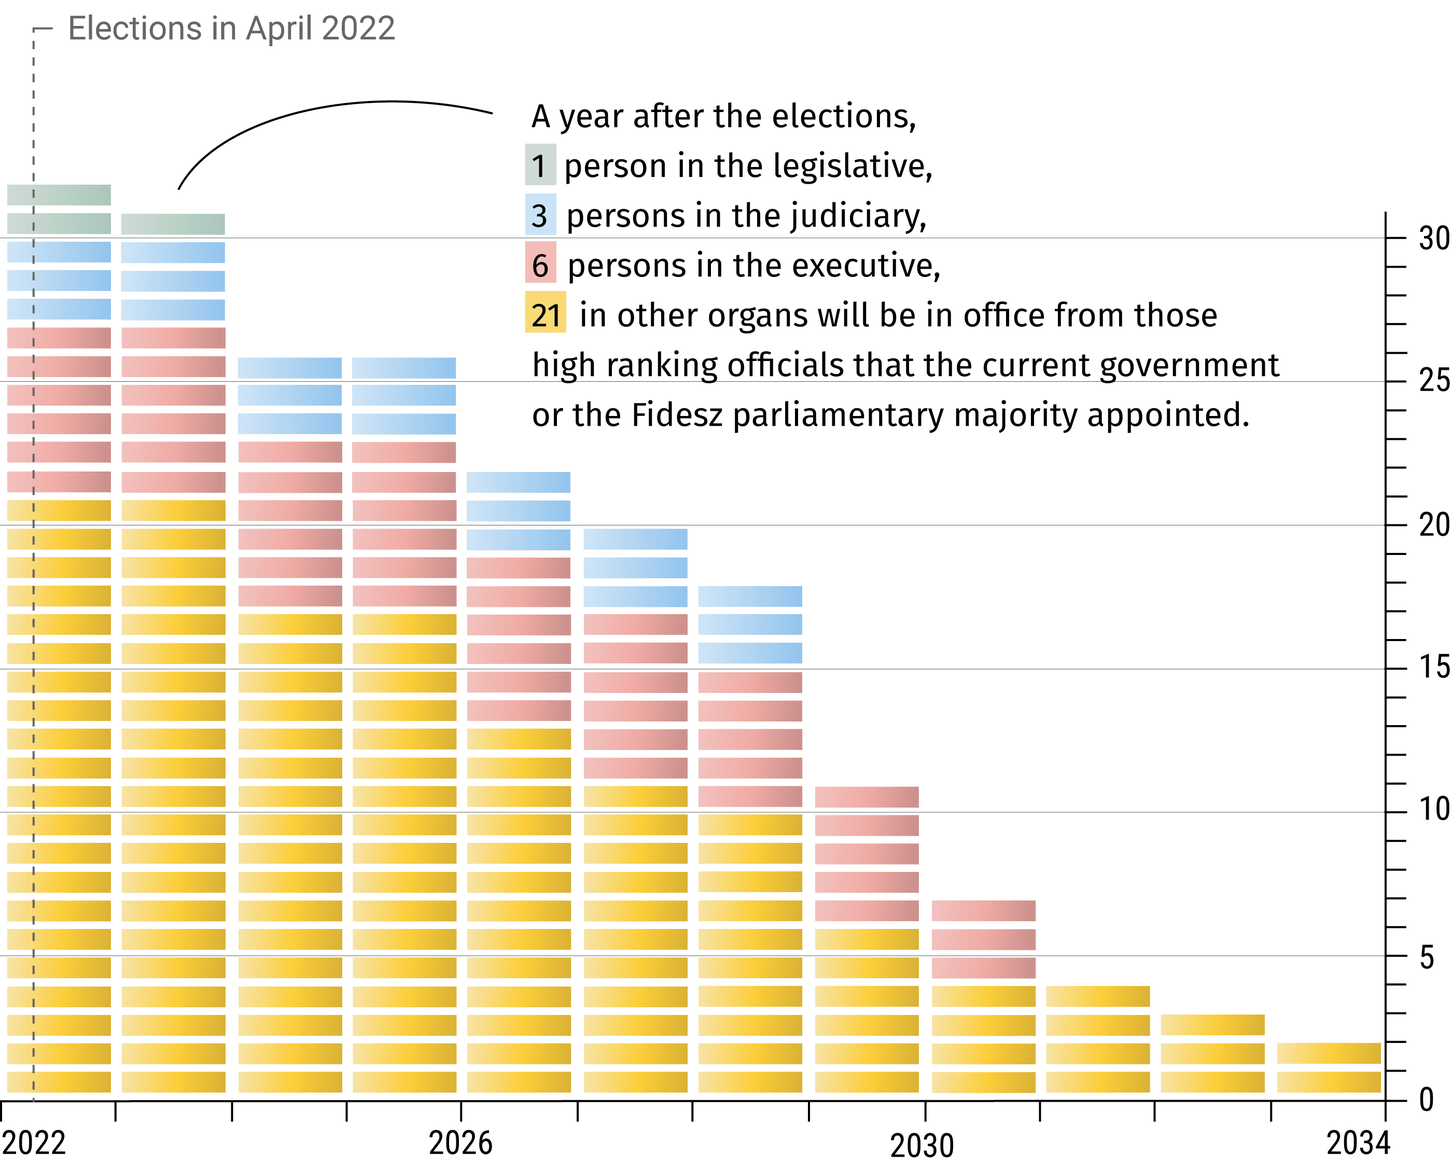
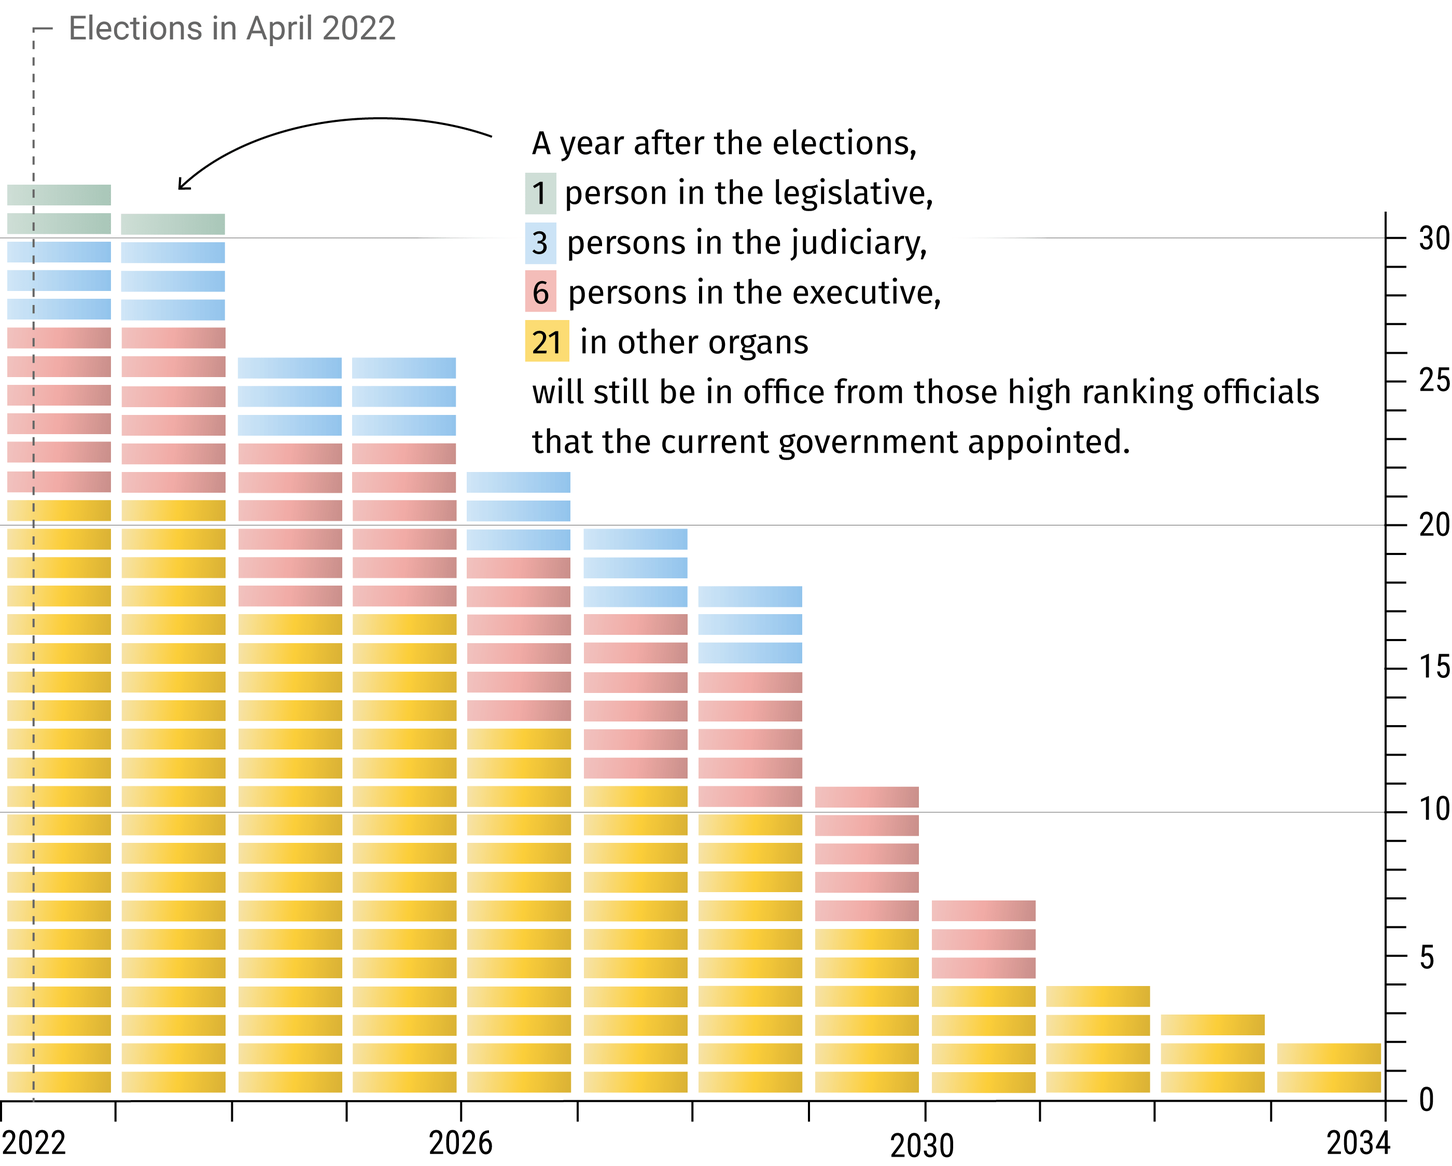
Updates

diff --git a/index.html b/index.html
@@ -7,7 +7,7 @@
     <meta name="viewport" content="width=device-width, initial-scale=1.0">
     <title>Következő kormány kezét megkötő szereplők</title>
     <meta name="description" content="Egy évvel a 2022-es választások után, a jelenlegi kormány által kinevezett magasrangú tisztviselők közül még ott lesz 1 a törvényhozásban, 3 az igazságszolgáltatásban, 6 a végrehajtásban, 21 az egyéb hivatalokban.">
-    <meta property="og:image" content="https://cementezettek.helsinki.hu/assets/img/scoial_HUN.png"/>
+    <meta property="og:image" content="https://cementezettek.helsinki.hu/assets/img/SOCIAL_HUN.png"/>
     <link rel="stylesheet" href="assets/css/app.css">
     <link rel="preconnect" href="https://fonts.googleapis.com">
     <link rel="preconnect" href="https://fonts.gstatic.com" crossorigin>
@@ -30,7 +30,7 @@
     <div class="narrowwrap">
         <div id="thelead" class="thelead pageintro">
             <div id="animintro" data-aos="fade-up" data-aos-delay="500" data-aos-duration="1200">
-                <p>2010 óta a Fidesz folyamatosan igyekszik bebetonozni hatalmát. Így a választások után, annak eredményének függetlenül, nehezen elmozdítható közjogi tisztségviselők hada marad pozícióban, akik kizárólag a jelenlegi kormánynak vagy a Fidesz-többségnek köszönhetik mandátumukat.</p>
+                <p>2010 óta a Fidesz folyamatosan igyekszik bebetonozni hatalmát. Így a választások után, annak eredményétől függetlenül, nehezen elmozdítható közjogi tisztségviselők hada marad pozícióban, akik kizárólag a jelenlegi kormánynak vagy a Fidesz-többségnek köszönhetik mandátumukat.</p>
                 <p>Könnyen lehet, hogy kormányváltás esetén ezek a személyek a pozíciójukhoz kapcsolt formális és informális eszközeikkel akadályozni fogják az új kormányt. Az államapparátus minden szegletében találunk ilyen tisztviselőket:</p>
             </div>
         </div>
@@ -75,7 +75,7 @@
                         <li>2030</li>
                         <li>2034</li>
                     </ul>
-                    <svg class="theaxis" viewBox="0 0 600 15" fill="black" xmlns="http://www.w3.org/2000/svg">
+                    <svg class="theaxis" viewBox="0 0 600 15" fill="black" width="100%" preserveAspectRatio="none" xmlns="http://www.w3.org/2000/svg">
                         <g class='markers'>
                             <rect x='0%' y='0' width='1' height='15' /><!-- 2010 -->
                             <rect x='4.1666%' y='7' width='1' height='8' /><!-- 2011 -->
@@ -105,7 +105,7 @@
                         </g>
                         <rect x='0%' y='100%' width='100%' height='1' transform="translate(0, -1)" />
                     </svg>
-                    <p>Választások 2022. áprilisában</p>
+                    <p>Választások 2022 áprilisában</p>
                 </div>            </div>
                 <div class="office">
                     <h3 class="office__title">Állami Számvevőszék</h3>
@@ -123,7 +123,7 @@
                     <h3 class="office__title">Költségvetési Tanács</h3>
                     <div class="office__intro">
                         <p>
-                            Az Országgyűlés törvényhozási munkáját segítő testület. A költségvetési törvény elfogadásához a Tanács hozzájárulása szükséges, amit megtagadhat, ha meglátása szerint a költségvetési javaslat nem felel meg az államadósság-fék szabálynak. A már elfogadott költségvetés módosítását is megvétózhatja, és jelenősen korlátozhatja a Kormány és a Parlament pénzügyi mozgásterét.
+                            Az Országgyűlés törvényhozási munkáját segítő testület. A költségvetési törvény elfogadásához a Tanács hozzájárulása szükséges, amit megtagadhat, ha meglátása szerint a költségvetési javaslat nem felel meg az államadósság-fék szabálynak. A már elfogadott költségvetés módosítását is megvétózhatja, és jelenősen korlátozhatja a kormány és a parlament pénzügyi mozgásterét.
                         </p>
                     </div>
                     <div class="office__data">
@@ -154,7 +154,7 @@
                         <li>2030</li>
                         <li>2034</li>
                     </ul>
-                    <svg class="theaxis" viewBox="0 0 600 15" fill="black" xmlns="http://www.w3.org/2000/svg">
+                    <svg class="theaxis" viewBox="0 0 600 15" fill="black" width="100%" preserveAspectRatio="none" xmlns="http://www.w3.org/2000/svg">
                         <g class='markers'>
                             <rect x='0%' y='0' width='1' height='15' /><!-- 2010 -->
                             <rect x='4.1666%' y='7' width='1' height='8' /><!-- 2011 -->
@@ -184,7 +184,7 @@
                         </g>
                         <rect x='0%' y='100%' width='100%' height='1' transform="translate(0, -1)" />
                     </svg>
-                    <p>Választások 2022. áprilisában</p>
+                    <p>Választások 2022 áprilisában</p>
                 </div>            </div>
                 <div class="office">
                     <h3 class="office__title">Kúria</h3>
@@ -231,7 +231,7 @@
                 <h2 class="chapter__title cl3">Végrehajtás</h2>
             </div>
             <div class="chapter__intro">
-                <p>A végrehajtó hatalom csúcsszerve a Kormány, azonban az utóbbi években számos, hagyományosan a Kormány és a végrehajtó hatalom hatáskörébe tartozó feladatot szerveztek ki a mindenkori Kormánytól jogilag független szervekhez. Ezen szervek vezetőit a Kormány hivatalos úton nem utasíthatja, és csak nagyon korlátozott esetekben mozdíthatja el. A 2022-es választás után <strong>6 vezető tisztségviselő</strong> marad hivatalban.</p>
+                <p>A végrehajtó hatalom csúcsszerve a kormány, azonban az utóbbi években számos, hagyományosan a kormány és a végrehajtó hatalom hatáskörébe tartozó feladatot szerveztek ki a mindenkori kormánytól jogilag független szervekhez. Ezen szervek vezetőit a kormány hivatalos úton nem utasíthatja, és csak nagyon korlátozott esetekben mozdíthatja el. A 2022-es választás után <strong>6 vezető tisztségviselő</strong> marad hivatalban.</p>
             </div>
             <div id="chapterdata-vegrehajtas" class="chapter__data">
                 <div class="sticky" data-sticky data-margin-top="0" data-sticky-on="small" data-anchor="chapterdata-vegrehajtas">
@@ -245,7 +245,7 @@
                         <li>2030</li>
                         <li>2034</li>
                     </ul>
-                    <svg class="theaxis" viewBox="0 0 600 15" fill="black" xmlns="http://www.w3.org/2000/svg">
+                    <svg class="theaxis" viewBox="0 0 600 15" fill="black" width="100%" preserveAspectRatio="none" xmlns="http://www.w3.org/2000/svg">
                         <g class='markers'>
                             <rect x='0%' y='0' width='1' height='15' /><!-- 2010 -->
                             <rect x='4.1666%' y='7' width='1' height='8' /><!-- 2011 -->
@@ -275,7 +275,7 @@
                         </g>
                         <rect x='0%' y='100%' width='100%' height='1' transform="translate(0, -1)" />
                     </svg>
-                    <p>Választások 2022. áprilisában</p>
+                    <p>Választások 2022 áprilisában</p>
                 </div>            </div>
                 <div class="office">
                     <h3 class="office__title">Nemzeti Adatvédelmi és Információszabadság Hatóság</h3>
@@ -321,8 +321,8 @@
                         </p>
                     </div>
                     <div class="office__data">
-                            <svg class="svgbar color" viewBox="0 0 600 15" fill="#f4bdb9" width="100%" preserveAspectRatio="none" xmlns="http://www.w3.org/2000/svg"><title>Megbizatásának ideje: 2013.09.09. Idő előtt lemondott, újabb kinevezés várható, további 9 évre</title><g mask="url(#barstripes)"><rect class="base" fill="#efefef" x="0" y="0" width="100%" height="100%" /><rect fill="url(#cl3-grad)" class="progress" x="15.367465297585099%" y="0" width="72.13966533561513%" height="100%" mask="url(#barmask)" /></g></svg>
-                            <p style="margin-right: 12.492869366799772%;">dr. Karas Monika (elnök) idő előtt lemondott, újabb kinevezés várható, további 9 évre</p>
+                            <svg class="svgbar color" viewBox="0 0 600 15" fill="#f4bdb9" width="100%" preserveAspectRatio="none" xmlns="http://www.w3.org/2000/svg"><title>Megbízatásának ideje: 2021.12.14. - 2030.12.14.</title><g mask="url(#barstripes)"><rect class="base" fill="#efefef" x="0" y="0" width="100%" height="100%" /><rect fill="url(#cl3-grad)" class="progress" x="49.800342270393614%" y="0" width="37.50142612664005%" height="100%" mask="url(#barmask)" /></g></svg>
+                            <p style="margin-right: 12.698231602966342%;">Dr. Koltay András (elnök)</p>
                     </div>
                 </div>
                 <div class="office">
@@ -333,8 +333,8 @@
                         </p>
                     </div>
                     <div class="office__data">
-                            <svg class="svgbar color" viewBox="0 0 600 15" fill="#f4bdb9" width="100%" preserveAspectRatio="none" xmlns="http://www.w3.org/2000/svg"><title>Megbízatásának ideje: 2013.08.19. - 2030.12.04.</title><g mask="url(#barstripes)"><rect class="base" fill="#efefef" x="0" y="0" width="100%" height="100%" /><rect fill="url(#cl3-grad)" class="progress" x="15.127876022057436%" y="0" width="72.05980224377258%" height="100%" mask="url(#barmask)" /></g></svg>
-                            <p style="margin-right: 12.812321734169993%;">dr. Karas Monika, majd Dr. Koltay András (elnök)</p>
+                            <svg class="svgbar color" viewBox="0 0 600 15" fill="#f4bdb9" width="100%" preserveAspectRatio="none" xmlns="http://www.w3.org/2000/svg"><title>Megbízatásának ideje: 2021.12.04. - 2030.12.04.</title><g mask="url(#barstripes)"><rect class="base" fill="#efefef" x="0" y="0" width="100%" height="100%" /><rect fill="url(#cl3-grad)" class="progress" x="49.68625213918996%" y="0" width="37.50142612664005%" height="100%" mask="url(#barmask)" /></g></svg>
+                            <p style="margin-right: 12.812321734169993%;">Dr. Koltay András (elnök)</p>
                     </div>
                 </div>
                 <div class="office">
@@ -358,7 +358,7 @@
                 <h2 class="chapter__title cl4">Egyéb hivatalok</h2>
             </div>
             <div class="chapter__intro">
-                <p>A magyar alkotmányos rendszerben számos olyan közjogi tisztségviselő és szerv van, amelyek nem sorolhatók be tisztán egyik hatalmi ág alá sem, azonban jelentős szerepük van az állam működőképességének fenntartásában, vagy éppen fékként és ellensúlyként szolgálnak a többi hatalmi ággal szemben. Ha ezen szervek hivatali hatalmukat obstruktív módon gyakorolják, az nemcsak a Kormány mozgásterét szűkíti, hanem alapvetően veszélyeztetheti az állam működését. A választásokat követően <strong>21 tisztviselő</strong> marad pozícióban.</p>
+                <p>A magyar alkotmányos rendszerben számos olyan közjogi tisztségviselő és szerv van, amelyek nem sorolhatók be tisztán egyik hatalmi ág alá sem, azonban jelentős szerepük van az állam működőképességének fenntartásában, vagy éppen fékként és ellensúlyként szolgálnak a többi hatalmi ággal szemben. Ha ezen szervek hivatali hatalmukat obstruktív módon gyakorolják, az nemcsak a kormány mozgásterét szűkíti, hanem alapvetően veszélyeztetheti az állam működését. A választásokat követően <strong>21 tisztviselő</strong> marad pozícióban.</p>
             </div>
             <div id="chapterdata-egyeb" class="chapter__data">
                 <div class="sticky" data-sticky data-margin-top="0" data-sticky-on="small" data-anchor="chapterdata-egyeb">
@@ -372,7 +372,7 @@
                         <li>2030</li>
                         <li>2034</li>
                     </ul>
-                    <svg class="theaxis" viewBox="0 0 600 15" fill="black" xmlns="http://www.w3.org/2000/svg">
+                    <svg class="theaxis" viewBox="0 0 600 15" fill="black" width="100%" preserveAspectRatio="none" xmlns="http://www.w3.org/2000/svg">
                         <g class='markers'>
                             <rect x='0%' y='0' width='1' height='15' /><!-- 2010 -->
                             <rect x='4.1666%' y='7' width='1' height='8' /><!-- 2011 -->
@@ -402,7 +402,7 @@
                         </g>
                         <rect x='0%' y='100%' width='100%' height='1' transform="translate(0, -1)" />
                     </svg>
-                    <p>Választások 2022. áprilisában</p>
+                    <p>Választások 2022 áprilisában</p>
                 </div>            </div>
                 <div class="office">
                     <h3 class="office__title">Alapvető jogok biztosa</h3>
@@ -465,7 +465,7 @@
                     </div>
                     <div class="office__data">
                             <svg class="svgbar color" viewBox="0 0 600 15" fill="#fcdc73" width="100%" preserveAspectRatio="none" xmlns="http://www.w3.org/2000/svg"><title>Megbízatásának ideje: 2012.05.10. - 2027.03.13.</title><g mask="url(#barstripes)"><rect class="base" fill="#efefef" x="0" y="0" width="100%" height="100%" /><rect fill="url(#cl4-grad)" class="progress" x="9.8112759079673%" y="0" width="61.83732648792546%" height="100%" mask="url(#barmask)" /></g></svg>
-                            <p style="margin-right: 28.35139760410724%;">dr. Áder János, utódját a jelenlegi parlament választja 5 évre</p>
+                            <p style="margin-right: 28.35139760410724%;">dr. Áder János mandátuma legkésőbb 2022. május 10-én lejár, utódját is a jelenlegi parlament választja 5 évre</p>
                     </div>
                 </div>
                 <div class="office">
@@ -552,7 +552,7 @@
         </div>
 
         <p>
-            Készült a <a target="_blank" href="https://helsinki.hu/">Magyar Helsinki Bizottság</a> megbízásából, a <a target="_blank" href="https://postkodstiftelsen.se/en/">Svenska Postkodstiftelsen</a> támogatásával.<br>Adat: 2021. november 30. &middot;
+            Készült a <a target="_blank" href="https://helsinki.hu/">Magyar Helsinki Bizottság</a> megbízásából, a <a target="_blank" href="https://postkodstiftelsen.se/en/">Svenska Postkodstiftelsen</a> támogatásával.<br>Adat: 2021. december 15. &middot;
             Koncepció és grafika: <a target="_blank" href="https://www.szemann.com/">Szémann Tamás</a> &middot; Sitebuild: <a target="_blank" href="https://hydrogene.hu/">Hydrogene</a>
         </p>
     </div>

diff --git a/en/index.html b/en/index.html
@@ -7,7 +7,7 @@
     <meta name="viewport" content="width=device-width, initial-scale=1.0">
     <title>Cemented</title>
     <meta name="description" content="A year after the elections, 1 person in the legislative, 3 persons in the judiciary, 6 persons in the executive,  21 in other organs will be in office from those high ranking officials that the current government or the Fidesz parliamentary majority appointed.">
-    <meta property="og:image" content="https://cementezettek.helsinki.hu/assets/img/scoial_ENG.png"/>
+    <meta property="og:image" content="https://cementezettek.helsinki.hu/assets/img/SOCIAL_ENG.png"/>
     <link rel="stylesheet" href="../assets/css/app.css">
     <link rel="preconnect" href="https://fonts.googleapis.com">
     <link rel="preconnect" href="https://fonts.gstatic.com" crossorigin>
@@ -75,7 +75,7 @@
                         <li>2030</li>
                         <li>2034</li>
                     </ul>
-                    <svg class="theaxis" viewBox="0 0 600 15" fill="black" xmlns="http://www.w3.org/2000/svg">
+                    <svg class="theaxis" viewBox="0 0 600 15" fill="black" width="100%" preserveAspectRatio="none" xmlns="http://www.w3.org/2000/svg">
                         <g class='markers'>
                             <rect x='0%' y='0' width='1' height='15' /><!-- 2010 -->
                             <rect x='4.1666%' y='7' width='1' height='8' /><!-- 2011 -->
@@ -154,7 +154,7 @@
                         <li>2030</li>
                         <li>2034</li>
                     </ul>
-                    <svg class="theaxis" viewBox="0 0 600 15" fill="black" xmlns="http://www.w3.org/2000/svg">
+                    <svg class="theaxis" viewBox="0 0 600 15" fill="black" width="100%" preserveAspectRatio="none" xmlns="http://www.w3.org/2000/svg">
                         <g class='markers'>
                             <rect x='0%' y='0' width='1' height='15' /><!-- 2010 -->
                             <rect x='4.1666%' y='7' width='1' height='8' /><!-- 2011 -->
@@ -245,7 +245,7 @@
                         <li>2030</li>
                         <li>2034</li>
                     </ul>
-                    <svg class="theaxis" viewBox="0 0 600 15" fill="black" xmlns="http://www.w3.org/2000/svg">
+                    <svg class="theaxis" viewBox="0 0 600 15" fill="black" width="100%" preserveAspectRatio="none" xmlns="http://www.w3.org/2000/svg">
                         <g class='markers'>
                             <rect x='0%' y='0' width='1' height='15' /><!-- 2010 -->
                             <rect x='4.1666%' y='7' width='1' height='8' /><!-- 2011 -->
@@ -321,8 +321,8 @@
                         </p>
                     </div>
                     <div class="office__data">
-                            <svg class="svgbar color" viewBox="0 0 600 15" fill="#f4bdb9" width="100%" preserveAspectRatio="none" xmlns="http://www.w3.org/2000/svg"><title>Appointment: 2013.09.09. Resigned before her end of term, a new appointment is expected for another 9 years</title><g mask="url(#barstripes)"><rect class="base" fill="#efefef" x="0" y="0" width="100%" height="100%" /><rect fill="url(#cl3-grad)" class="progress" x="15.367465297585099%" y="0" width="72.13966533561513%" height="100%" mask="url(#barmask)" /></g></svg>
-                            <p style="margin-right: 12.492869366799772%;">dr. Monika Karas (President) resigned before her end of term, a new appointment is expected for another 9 years</p>
+                            <svg class="svgbar color" viewBox="0 0 600 15" fill="#f4bdb9" width="100%" preserveAspectRatio="none" xmlns="http://www.w3.org/2000/svg"><title>Appointment term: 12/14/21 - 12/14/30</title><g mask="url(#barstripes)"><rect class="base" fill="#efefef" x="0" y="0" width="100%" height="100%" /><rect fill="url(#cl3-grad)" class="progress" x="49.800342270393614%" y="0" width="37.50142612664005%" height="100%" mask="url(#barmask)" /></g></svg>
+                            <p style="margin-right: 12.698231602966342%;">Dr. András Koltay (President)</p>
                     </div>
                 </div>
                 <div class="office">
@@ -333,8 +333,8 @@
                         </p>
                     </div>
                     <div class="office__data">
-                            <svg class="svgbar color" viewBox="0 0 600 15" fill="#f4bdb9" width="100%" preserveAspectRatio="none" xmlns="http://www.w3.org/2000/svg"><title>Appointment term: 8/19/13 - 12/4/30</title><g mask="url(#barstripes)"><rect class="base" fill="#efefef" x="0" y="0" width="100%" height="100%" /><rect fill="url(#cl3-grad)" class="progress" x="15.127876022057436%" y="0" width="72.05980224377258%" height="100%" mask="url(#barmask)" /></g></svg>
-                            <p style="margin-right: 12.812321734169993%;">dr. Monika Karas, then Dr. András Koltay (President)</p>
+                            <svg class="svgbar color" viewBox="0 0 600 15" fill="#f4bdb9" width="100%" preserveAspectRatio="none" xmlns="http://www.w3.org/2000/svg"><title>Appointment term: 12/4/21 - 12/4/30</title><g mask="url(#barstripes)"><rect class="base" fill="#efefef" x="0" y="0" width="100%" height="100%" /><rect fill="url(#cl3-grad)" class="progress" x="49.68625213918996%" y="0" width="37.50142612664005%" height="100%" mask="url(#barmask)" /></g></svg>
+                            <p style="margin-right: 12.812321734169993%;">Dr. András Koltay (President)</p>
                     </div>
                 </div>
                 <div class="office">
@@ -372,7 +372,7 @@
                         <li>2030</li>
                         <li>2034</li>
                     </ul>
-                    <svg class="theaxis" viewBox="0 0 600 15" fill="black" xmlns="http://www.w3.org/2000/svg">
+                    <svg class="theaxis" viewBox="0 0 600 15" fill="black" width="100%" preserveAspectRatio="none" xmlns="http://www.w3.org/2000/svg">
                         <g class='markers'>
                             <rect x='0%' y='0' width='1' height='15' /><!-- 2010 -->
                             <rect x='4.1666%' y='7' width='1' height='8' /><!-- 2011 -->
@@ -465,7 +465,7 @@
                     </div>
                     <div class="office__data">
                             <svg class="svgbar color" viewBox="0 0 600 15" fill="#fcdc73" width="100%" preserveAspectRatio="none" xmlns="http://www.w3.org/2000/svg"><title>Appointment term: 5/10/12 - 3/13/27</title><g mask="url(#barstripes)"><rect class="base" fill="#efefef" x="0" y="0" width="100%" height="100%" /><rect fill="url(#cl4-grad)" class="progress" x="9.8112759079673%" y="0" width="61.83732648792546%" height="100%" mask="url(#barmask)" /></g></svg>
-                            <p style="margin-right: 28.35139760410724%;">dr. János Áder, his successor is elected by the current Parlaiment for 5 years</p>
+                            <p style="margin-right: 28.35139760410724%;">dr. János Áder&#x27;s term expires on 10 May 2022 at the latest, his successor will  be elected by the current Parliament for 5 years</p>
                     </div>
                 </div>
                 <div class="office">
@@ -550,7 +550,7 @@
         </div>
 
         <p>
-            Made on behalf of the <a target="_blank" href="https://helsinki.hu/en/">Hungarian Helsinki Committee,</a> supported by the <a target="_blank" href="https://postkodstiftelsen.se/en/">Swedish Postcode Foundation.</a><br>Data: November 30, 2021 &middot;
+            Made on behalf of the <a target="_blank" href="https://helsinki.hu/en/">Hungarian Helsinki Committee,</a> supported by the <a target="_blank" href="https://postkodstiftelsen.se/en/">Swedish Postcode Foundation.</a><br>Data: December 15, 2021 &middot;
             Concept and graphics: <a target="_blank" href="https://www.szemann.com/">Tamás Szémann</a> &middot; Sitebuild: <a target="_blank" href="https://hydrogene.hu/">Hydrogene</a>
         </p>
     </div>
